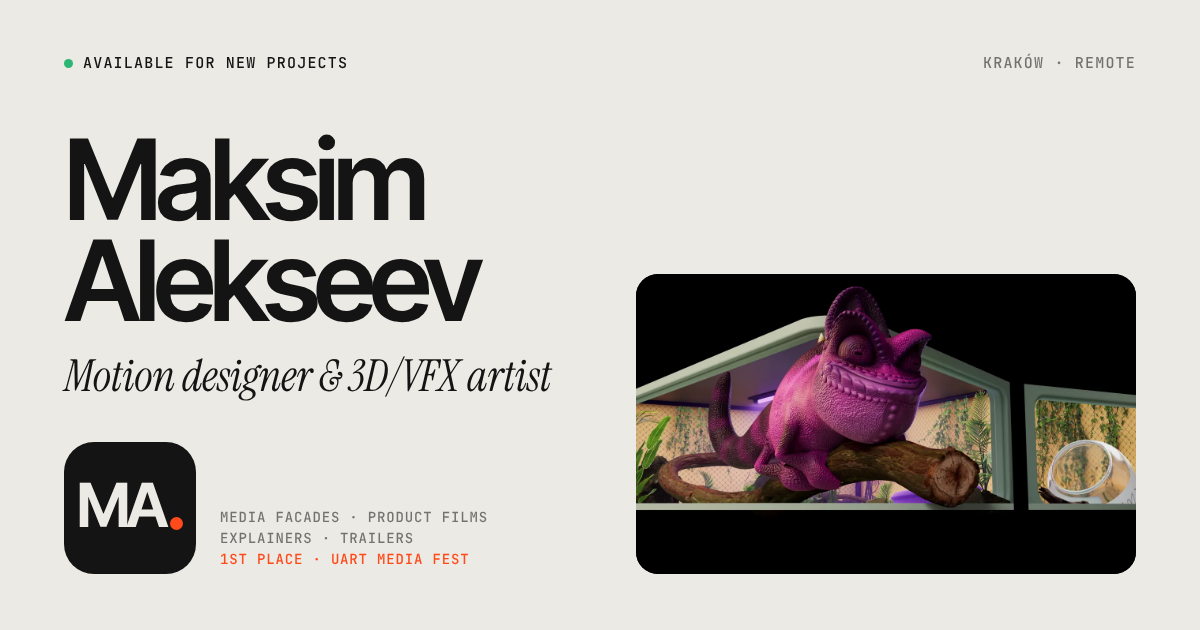
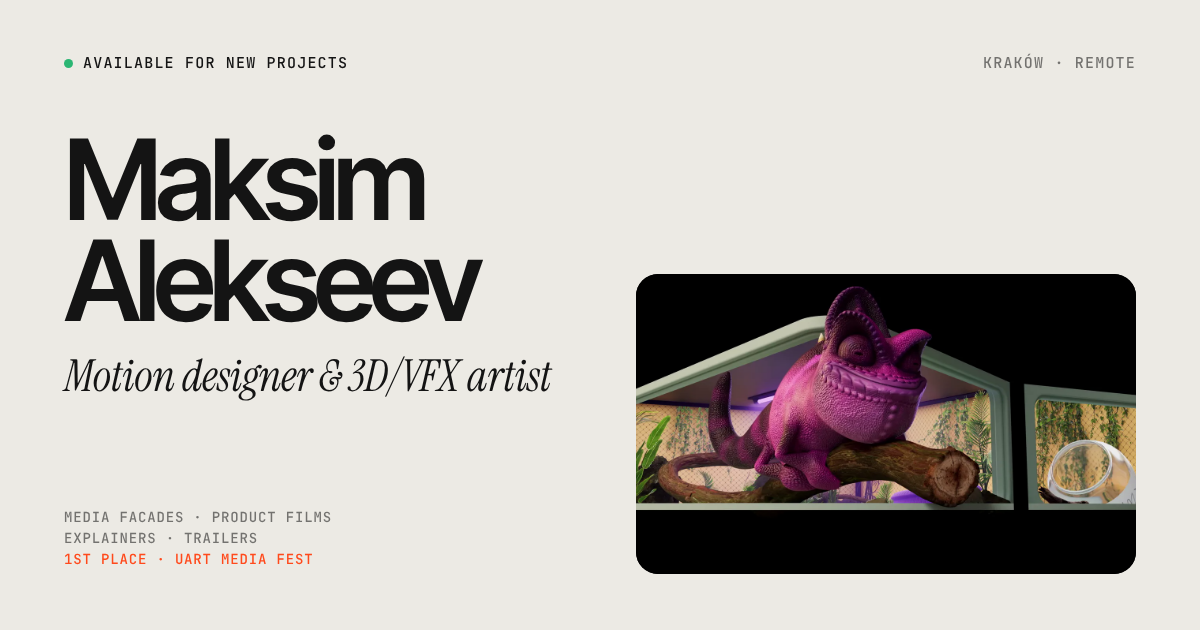
Share image without MA mark

Changed region(s): [[0.0308, 0.6937, 0.4008, 0.9349]]

diff --git a/index.html b/index.html
@@ -13,7 +13,7 @@
 <meta property="og:image" content="https://my-portfolio.maksim-alekseev-1995.workers.dev/og.png">
 <meta property="og:image:width" content="1200">
 <meta property="og:image:height" content="630">
-<meta property="og:image:alt" content="MA monogram — Maksim Alekseev, motion designer and 3D/VFX artist">
+<meta property="og:image:alt" content="Maksim Alekseev — motion designer and 3D/VFX artist">
 <meta property="og:locale" content="en_US">
 <meta property="og:locale:alternate" content="pl_PL">
 <meta property="og:locale:alternate" content="uk_UA">
